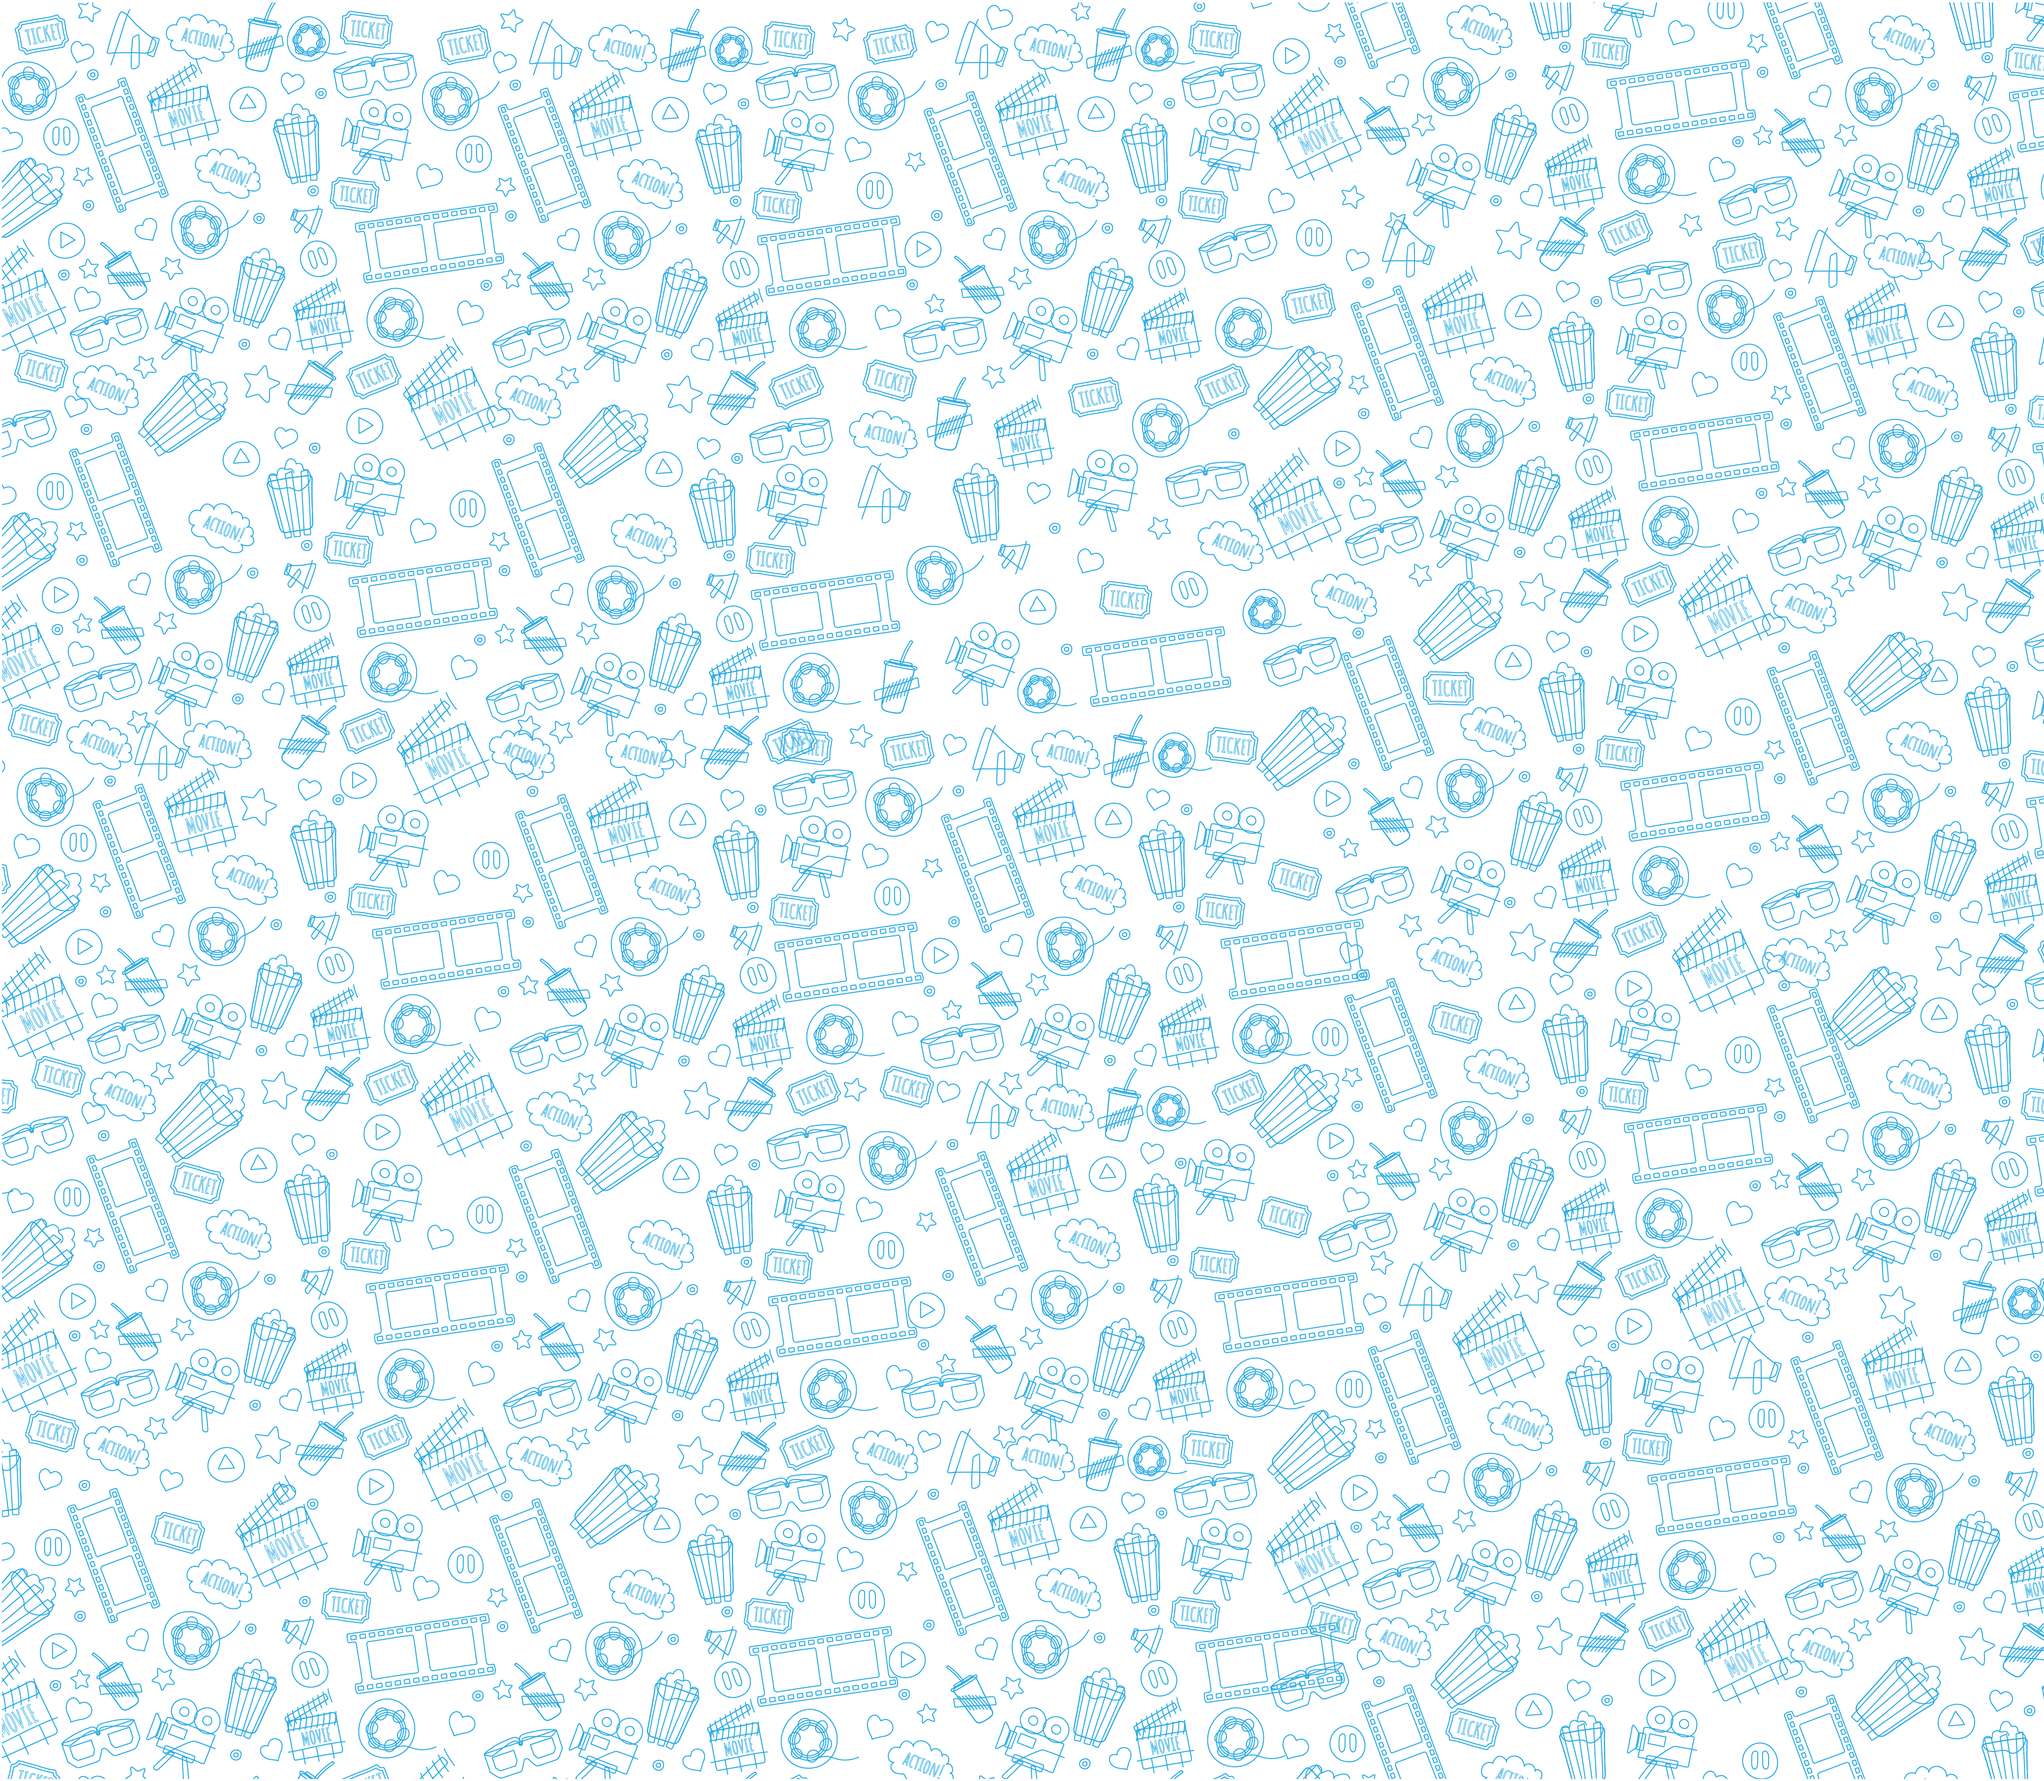
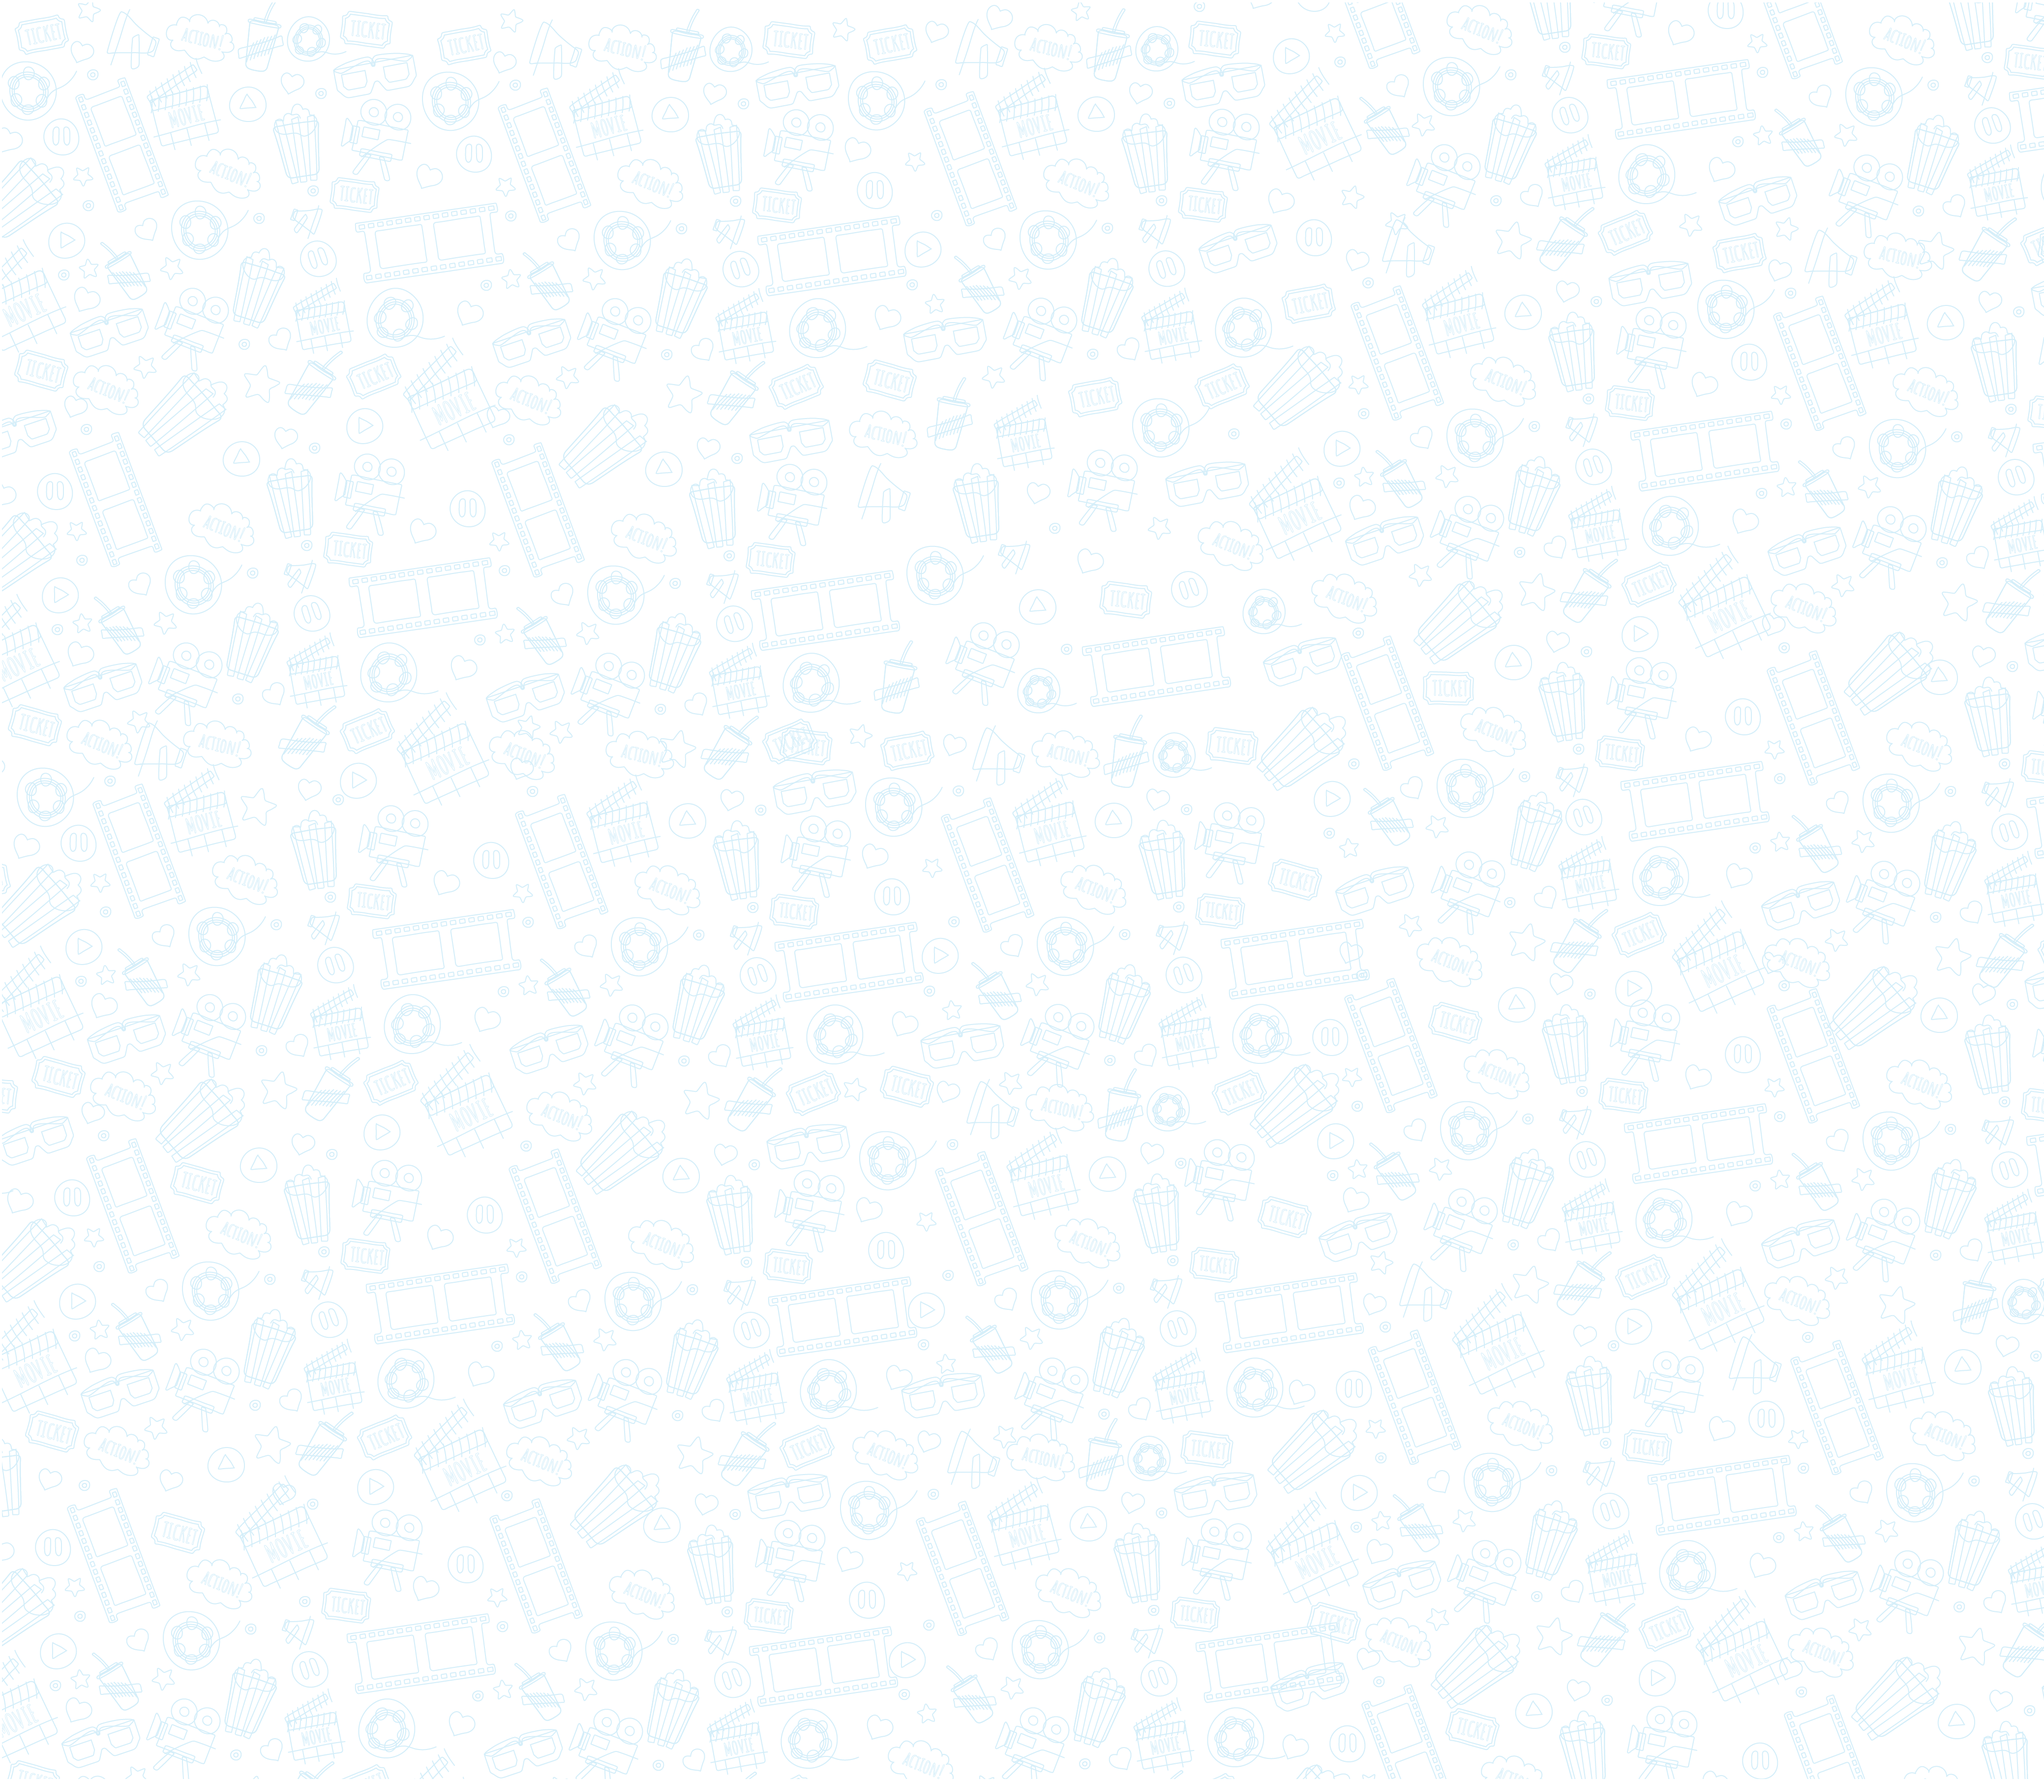
upload changes home

diff --git a/views/home.html b/views/home.html
@@ -140,6 +140,93 @@
       </div>
     </div>
   </section>
+  <section>
+    <div class="container-fluid container-video">
+      <div class="row">
+        <div class="col-xs-12 videostop">
+          <div class="video video1">
+          </div>
+          <div class="video video2"></div>
+          <div class="video video3"></div>
+          <div class="video video4"></div>
+          <div class="video video5"></div>
+          <div class="video video6"></div>
+          <div class="video video7"></div>
+          <div class="video video8"></div>
+          <div class="video video9"></div>
+        </div>
+      </div>
+    </div>
+  </section>
+
+  <footer>
+    <div class="container">
+      <div class="row">
+        <div class="col-xs-12">
+            <nav>
+                <div class="footer-nav-section">
+                  <h6>Explore</h6>
+                  <ul>
+                    <li><a href="/about-us/">About Us</a></li>
+                    <li><a href="/super-simple-songs/all-songs/">Super Simple Songs</a></li>
+                    <li><a href="/free-teaching-resources/">Free Resources</a></li>
+                    <li><a href="/live/">Super Simple Live</a></li>
+                    <li><a href="/blog/">Blog</a></li>
+                  </ul>
+                </div>
+                <div class="footer-nav-section">
+                  <h6>Watch</h6>
+                  <ul>
+                    <li><a href="/ad-free/">Watch Ad-free</a></li>
+                    <li><a href="https://www.amazon.com/s/ref=nb_sb_noss_2?url=search-alias%3Dinstant-video&amp;field-keywords=%22Super+Simple%22&amp;rh=n%3A2858778011%2Ck%3A%22Super+Simple%22" target="_blank">Amazon</a></li>
+                    <li><a href="https://www.youtube.com/supersimpleonline" target="_blank">YouTube</a></li>
+                    <li><a href="https://www.curiousworld.com" target="_blank">Curious World</a></li>
+                    <li><a href="https://www.hopster.tv/shows/super-simple-songs/" target="_blank">Hopster</a></li>
+                  </ul>
+                </div>
+                <div class="footer-nav-section">
+                  <h6>Listen</h6>
+                  <ul>
+                    <li><a href="https://itunes.apple.com/ca/artist/super-simple-learning/id429247660" target="_blank">Apple Music</a></li>
+                    <li><a href="https://play.spotify.com/artist/5eITLKT6HkkmaZvG882VEv?play=true&amp;utm_source=open.spotify.com&amp;utm_medium=open" target="_blank">Spotify</a></li>
+                    <li><a href="http://us.napster.com/artist/super-simple-songs" target="_blank">Napster</a></li>
+                    <li><a href="http://www.deezer.com/artist/9682672" target="_blank">Deezer</a></li>
+                  </ul>
+                </div>
+                <div class="footer-nav-section">
+                  <h6>Shop</h6>
+                  <ul>
+                    <li><a href="https://shop.supersimplelearning.com/">Super Simple Store</a></li>
+                    <li><a href="https://itunes.apple.com/us/artist/super-simple-songs/id1220065281" target="_blank">iTunes</a></li>
+                    <li><a href="https://play.google.com/store/music/artist/Super_Simple_Songs?id=Aunvzank3aka53xd4pnaueha4um" target="_blank">Google Play</a></li>
+                    <li><a href="https://bamazoo.com/supersimple" target="_blank">Bamazoo</a></li>
+                    <li><a href="http://www.songsforteaching.com/store/super-simple-songs-c-427.html" target="_blank">Songs For Teaching</a></li>
+                  </ul>
+                </div>
+                <div class="footer-nav-section">
+                  <h6>Contact</h6>
+                  <ul>
+                    <li><a href="/contact/">Contact Us</a></li>
+                    <li><a href="http://supersimple.helpscoutdocs.com/" target="_blank">Support</a>
+                    </li><li><a href="https://skyship.tv/contact/" target="_blank">Licensing &amp; Distribution</a>
+                    </li><li><a href="https://skyship.tv/work-with-us/" target="_blank">Work With Us</a></li>
+                    <li><a href="https://supersimple.refersion.com" target="_blank">Become An Affiliate</a></li>
+                  </ul>
+                </div>
+                <div class="footer-nav-section">
+                  <h6>Follow</h6>
+                  <ul>
+                    <li><a href="https://facebook.com/supersimpleofficial/" target="_blank">Facebook</a></li>
+                    <li><a href="http://instagram.com/supersimpleofficial" target="_blank">Instagram</a></li>
+                    <li><a href="http://pinterest.com/simplesongs/" target="_blank">Pinterest</a></li>
+                    <li><a href="http://twitter.com/simplesongs/" target="_blank">Twitter</a></li>
+                  </ul>
+                </div>
+              </nav>
+        </div>
+      </div>
+    </div>
+  </footer>
 
 
   <!-- Librería Jquery enlazada -->

diff --git a/css/home.css b/css/home.css
@@ -224,3 +224,98 @@ li .inicio{
     padding-left: 20%;
     padding-top: 5px;
 }
+
+/* Seccion video */
+
+.container-video{
+    background-image: url("../assets/img/fondomoviesinopsis.png");
+}
+
+.videostop{
+    display: flex;
+    flex-direction: row;
+    flex-wrap: wrap;
+    column-count: 3;
+    justify-content: space-around;
+}
+
+.video{
+    background-color: cadetblue;
+    height: 400px;
+    width: 250px;
+    margin: 5px;
+}
+
+.video1{
+    background-image: url(../assets/cartelera/jefe.jpg);
+    background-size: 100% 100%;
+}
+
+.video2{
+    background-image: url(../assets/cartelera/rio.jpg);
+    background-size: 100% 100%;
+}
+
+.video3{
+    background-image: url(../assets/cartelera/coco.jpg);
+    background-size: 100% 100%;
+}
+
+.video4{
+    background-image: url(../assets/cartelera/calzoncillo.jpg);
+    background-size: 100% 100%;
+}
+
+.video5{
+    background-image: url(../assets/cartelera/frozen.jpg);
+    background-size: 100% 100%;
+}
+.video6{
+    background-image: url(../assets/cartelera/dory.jpg);
+    background-size: 100% 100%;
+}
+
+.video7{
+    background-image: url(../assets/cartelera/moanac.jpg);
+    background-size: 100% 100%;
+}
+
+.video8{
+    background-image: url(../assets/cartelera/monster.jpg);
+    background-size: 100% 100%;
+}
+
+.video9{
+    display: none;
+}
+
+@media (max-width: 1200px) {
+
+.video9{
+    display:block;
+    background-image: url(../assets/cartelera/minion.jpg);
+    background-size: 100% 100%;
+    }
+}
+
+
+
+/* Footer */
+
+footer#footer {
+    background: #39BFCD;
+    overflow: hidden;
+    clear: both;
+    padding: 2em 0;
+}
+
+footer#footer .footer-nav-section {
+    -webkit-box-sizing: border-box;
+    -moz-box-sizing: border-box;
+    -ms-box-sizing: border-box;
+    box-sizing: border-box;
+    width: 16.66667%;
+    float: left;
+    padding-left: 12.5px;
+    padding-right: 12.5px;
+}
